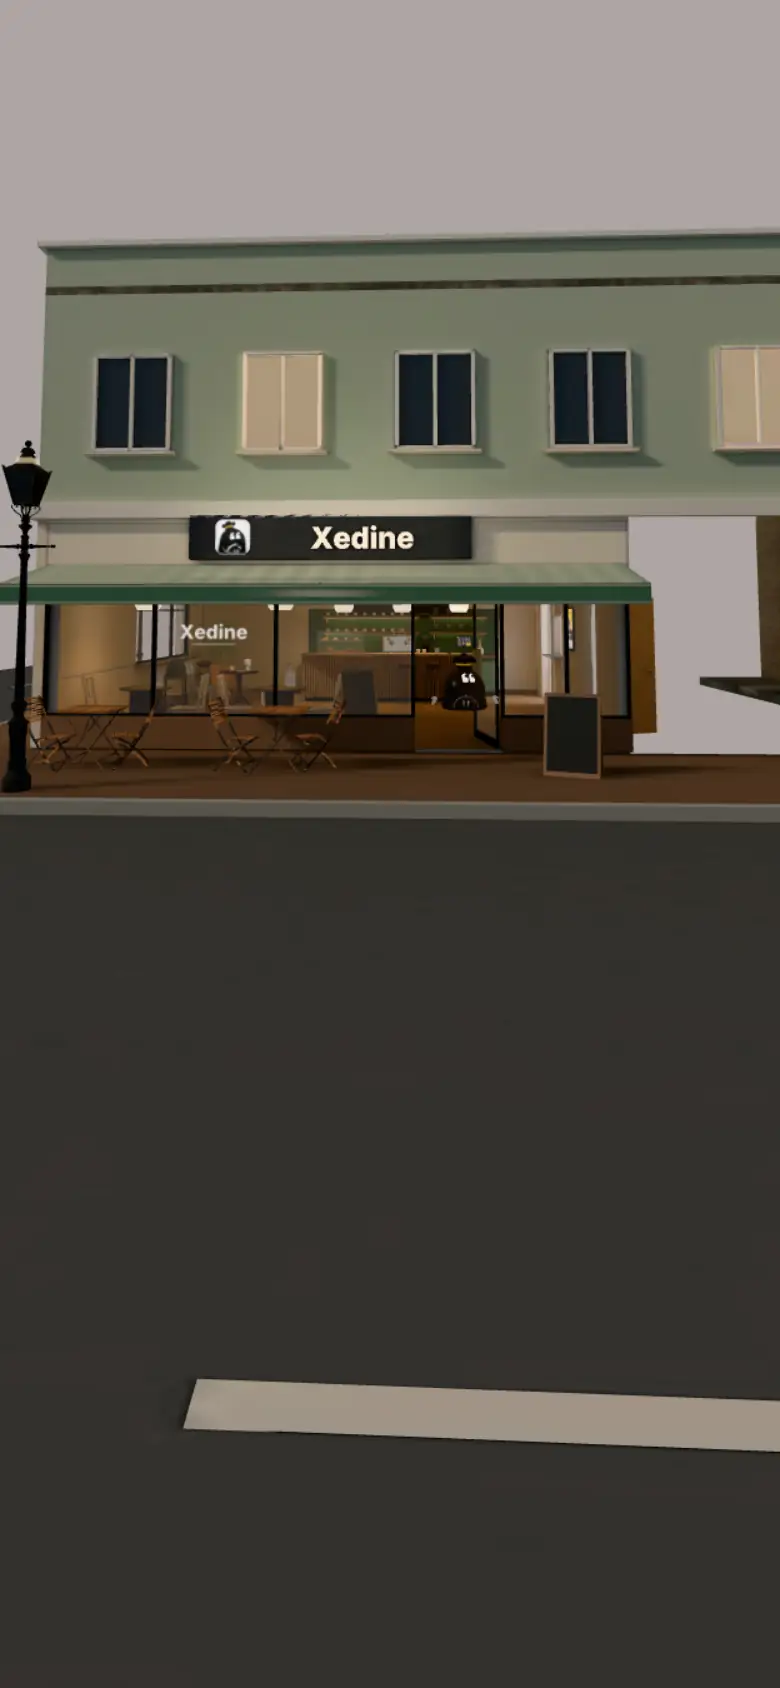
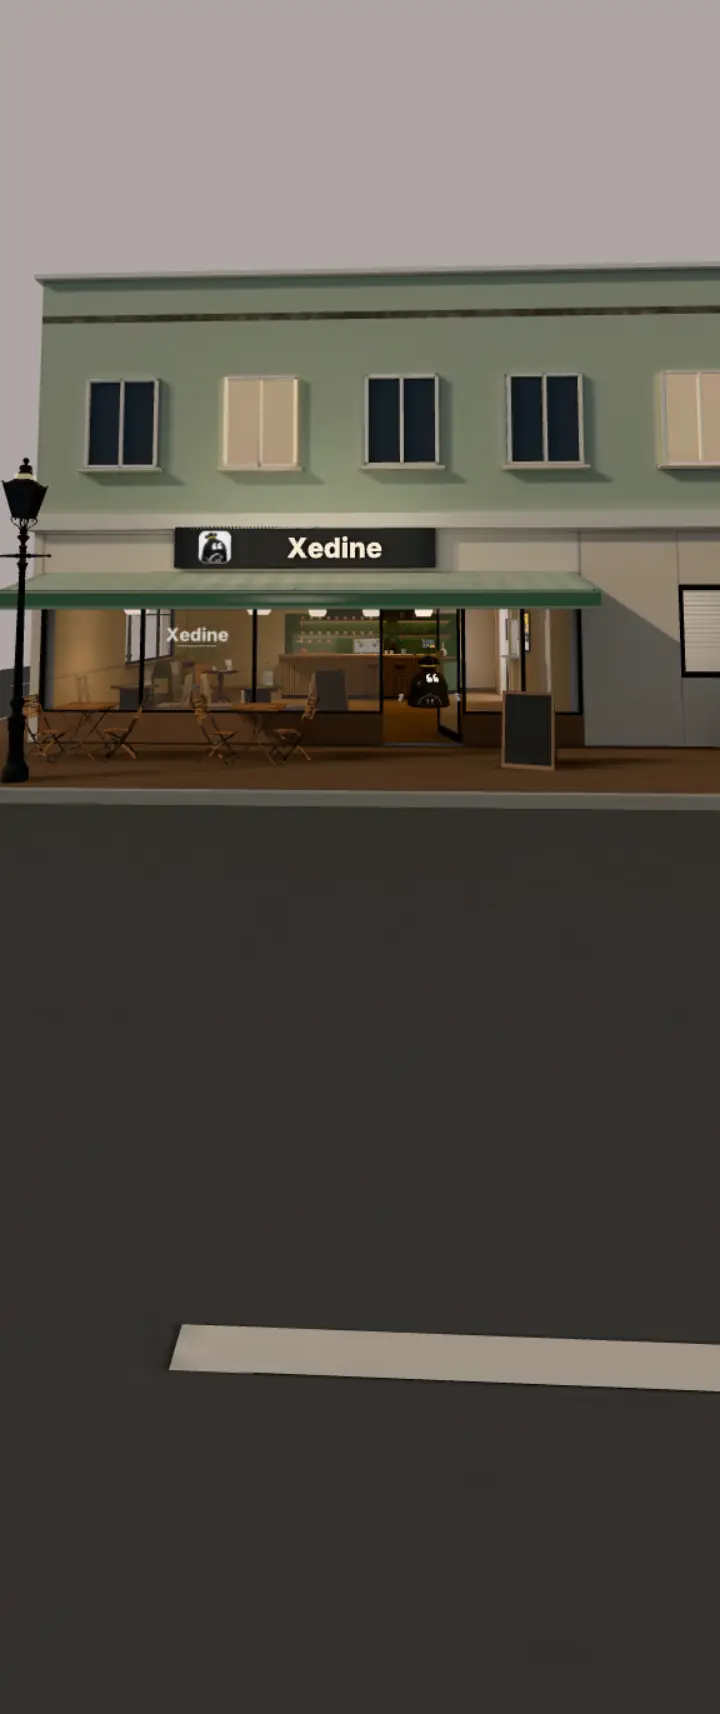
Home page: the first picture matches the 3D on every screen, and the first scroll no longer stutters (ADR 0064)
- Three first-view pictures (wide, squarer, tall), each anchored like the 3D camera, so the 3D fades in
  without a jump on any screen shape (checked at eight sizes, no shift). The 3D shows only once the street
  and the café are in, so the café never pops in; the loading chip only if someone scrolls first.
- 3D files unpack in background workers; each room goes to the graphics card when it arrives; later rooms
  load when the browser is idle instead of on the first scroll.

Changed region(s): [[0.0, 0.1232, 1.0, 0.4929], [0.2444, 0.7701, 1.0, 0.8626]]

diff --git a/src/components/landing-3d/world.tsx b/src/components/landing-3d/world.tsx
@@ -1,7 +1,7 @@
 'use client';
 
 import { useGLTF } from '@react-three/drei';
-import { useFrame } from '@react-three/fiber';
+import { useFrame, useThree } from '@react-three/fiber';
 import {
   type RefObject,
   Suspense,
@@ -17,6 +17,7 @@ import { createScreen, planeUv, SCREEN_SIZES, type ScreenText } from './screens'
 import { type ScreenId, toThree, type V3 } from './story';
 import { friesShown, screenAt, timeOfDay, windowOpen } from './timeline';
 import { landingAsset } from './asset-version';
+import { withMeshopt } from './gltf';
 
 /** Built by scripts/landing-3d/world.py + bake.py + pack.mjs (ADR 0064): one file per zone. */
 export const ZONES = ['st', 'ca', 'ki', 'sr', 'of'] as const;
@@ -25,10 +26,13 @@ export const zoneUrl = (z: Zone) => landingAsset(`world-${z}.glb`);
 const NIGHT_URL = (atlas: string) => landingAsset(`night/${atlas}.webp`);
 
 /**
- * From which point of the story (p) each zone may load: the café shows through the windows at dawn; the
- * kitchen and the storeroom are on the way to the bazar (moment 3); the office is moment 6.
+ * Where in the story (p) each zone is needed at the latest: the café shows through the windows at dawn; the
+ * kitchen and the storeroom are on the way to the bazar (moment 3); the office is moment 6. Zones load one
+ * at a time when the browser is idle, or at once when the story gets this close.
  */
-const ZONE_FROM: Record<Zone, number> = { st: 0, ca: 0, ki: 0.35, sr: 0.35, of: 3 };
+const ZONE_NEEDED: Record<Zone, number> = { st: 0, ca: 0, ki: 1.2, sr: 1.2, of: 4 };
+
+const TEXTURE_SLOTS = ['map', 'emissiveMap', 'normalMap', 'roughnessMap', 'metalnessMap', 'aoMap'];
 
 /** Shared by every baked surface: how far into the night, and the light's colour (dawn is warm). */
 export const LIGHT = { uNight: { value: 0 }, uTint: { value: new THREE.Color(1, 1, 1) } };
@@ -86,9 +90,27 @@ function ZoneModel({
   live: RefObject<LiveParts>;
   onLoaded: (zone: Zone) => void;
 }) {
-  const { scene } = useGLTF(zoneUrl(zone), false, true);
+  const { scene } = useGLTF(zoneUrl(zone), false, false, withMeshopt);
   // Tells the world this zone is in, so the next one starts loading (one at a time, the street first).
-  useEffect(() => onLoaded(zone), [onLoaded, zone]);
+  const gl = useThree((state) => state.gl);
+  const camera = useThree((state) => state.camera);
+  useEffect(() => {
+    // Hand the zone to the graphics card now (textures and shaders), not the first time it comes into view
+    // mid-scroll, which made the page stutter (the founder, 2026-11-18).
+    scene.traverse((o) => {
+      const mesh = o as THREE.Mesh;
+      if (!mesh.isMesh) return;
+      for (const mat of Array.isArray(mesh.material) ? mesh.material : [mesh.material]) {
+        const slots = mat as unknown as Record<string, unknown>;
+        for (const slot of TEXTURE_SLOTS) {
+          const tex = slots[slot];
+          if (tex instanceof THREE.Texture) gl.initTexture(tex);
+        }
+      }
+    });
+    gl.compile(scene, camera);
+    onLoaded(zone);
+  }, [gl, camera, scene, onLoaded, zone]);
   useLayoutEffect(() => {
     const hinged: THREE.Mesh[] = [];
     scene.traverse((o) => {
@@ -309,24 +331,34 @@ export function World({
   text,
   zones,
   onStreet,
+  onFirstView,
 }: {
   progressRef: RefObject<number>;
   text: ScreenText;
   zones: readonly Zone[];
-  /** Once the first zone is drawn. */
+  /** Once the first zone (the street) is drawn. */
   onStreet?: () => void;
+  /** Once the first view is whole: the street and the café seen through its windows. */
+  onFirstView?: () => void;
 }) {
-  // Zones load one at a time, and only once the story is near them (`ZONE_FROM`): someone who reads the
-  // first moment downloads the street and the café, not the whole building.
-  const [loaded, setLoaded] = useState(1);
-  const [reached, setReached] = useState(1);
+  // Zones load one at a time: the next one when the browser is idle, or at once when the story nears it
+  // (`ZONE_NEEDED`), so the first picture comes first and later rooms never arrive mid-scroll.
+  const [allowed, setAllowed] = useState(1);
+  const doneRef = useRef(0);
   const onLoaded = useCallback(
     (zone: Zone) => {
       const i = zones.indexOf(zone);
       if (i === 0) onStreet?.();
-      setLoaded((n) => Math.max(n, i + 2));
+      // The café shows through the windows at dawn: the 3D shows only once it is in, so it never pops in.
+      if (i === 1) onFirstView?.();
+      doneRef.current = Math.max(doneRef.current, i + 1);
+      const next = () => setAllowed((n) => Math.max(n, i + 2));
+      if (i === 0) next();
+      else if (typeof window.requestIdleCallback === 'function')
+        window.requestIdleCallback(next, { timeout: 2500 });
+      else globalThis.setTimeout(next, 800);
     },
-    [zones, onStreet],
+    [zones, onStreet, onFirstView],
   );
   const screens = useMemo<Screens>(() => {
     const out: Screens = {};
@@ -374,8 +406,9 @@ export function World({
 
   useFrame(() => {
     const p = progressRef.current ?? 0;
-    const near = zones.reduce((n, z, i) => (p >= ZONE_FROM[z] ? i + 1 : n), 1);
-    if (near > reached) setReached(near);
+    const done = doneRef.current;
+    const upcoming = zones[done];
+    if (upcoming && allowed <= done && p >= ZONE_NEEDED[upcoming]) setAllowed(done + 1);
     const { hour, night } = timeOfDay(p);
     LIGHT.uNight.value = THREE.MathUtils.smoothstep(night, 0.15, 0.95);
     // Dawn is warm and low; mid-afternoon a touch golden; noon neutral.
@@ -413,7 +446,7 @@ export function World({
 
   return (
     <>
-      {zones.slice(0, Math.min(loaded, reached)).map((z) => (
+      {zones.slice(0, allowed).map((z) => (
         <Suspense key={z} fallback={null}>
           <ZoneModel zone={z} screens={screens} live={live} onLoaded={onLoaded} />
         </Suspense>
@@ -425,5 +458,5 @@ export function World({
 }
 
 export function preloadWorld() {
-  for (const z of ZONES) useGLTF.preload(zoneUrl(z), false, true);
+  for (const z of ZONES) useGLTF.preload(zoneUrl(z), false, false, withMeshopt);
 }

diff --git a/src/components/landing-3d/day-story.tsx b/src/components/landing-3d/day-story.tsx
@@ -85,12 +85,9 @@ export function DayStory({ corner, footer, backdrop, currency, taxName, home, co
   // The loading chip shows until the street is drawn; the other rooms arrive while the visitor reads.
   const [ready, setReady] = useState(false);
   const onReady = useCallback(() => setReady(true), []);
-  // The loading chip only if the 3D is slow: until then the first view's picture is the page.
-  const [slow, setSlow] = useState(false);
-  useEffect(() => {
-    const id = window.setTimeout(() => setSlow(true), 2500);
-    return () => window.clearTimeout(id);
-  }, []);
+  // The first view's picture matches the 3D exactly, so it needs no loading chip, unless someone scrolls
+  // before the 3D is in (the picture cannot move with them).
+  const [moved, setMoved] = useState(false);
 
   useEffect(() => {
     const query = window.matchMedia('(prefers-reduced-motion: reduce)');
@@ -110,6 +107,7 @@ export function DayStory({ corner, footer, backdrop, currency, taxName, home, co
         targetRef.current = still.current ? Math.floor(p) + 0.62 : p;
         // The card changes halfway between two moments, as the next room comes into view.
         setActive(cardAt(p));
+        if (p > 0.05) setMoved(true);
         setShowCity(p > 14.6 && p < 17.6);
         // The moment's card shows while the 3D day fills the screen, not over the A–Z list after it.
         setInStory(el.getBoundingClientRect().bottom > window.innerHeight * 0.55);
@@ -168,7 +166,7 @@ export function DayStory({ corner, footer, backdrop, currency, taxName, home, co
               />
             </div>
           )}
-          {can3d && !ready && slow && (
+          {can3d && !ready && moved && (
             <div className="pointer-events-none absolute inset-x-0 bottom-6 flex justify-center">
               <p className="xedine-chip rounded-full px-4 py-1.5 text-xs">{t('intro.loading')}</p>
             </div>

diff --git a/src/components/landing-3d/day-page.tsx b/src/components/landing-3d/day-page.tsx
@@ -33,24 +33,39 @@ export async function DayPage({
     ...(COUNTRY_PLACES[c] ?? { lat: 0, lng: 0 }),
   });
   await getTranslations('landing3d.day');
-  // The first view as a picture (captured from the 3D, 44 KB wide, 18 KB upright), shown at once.
+  // The first view as a picture, shown at once. Three shapes, each framed and anchored like the 3D camera
+  // (frameCamera): wide screens keep the height with the subject 66% across, squarer ones keep the width,
+  // upright phones keep the width with the subject a third down. So the 3D fades in without a jump.
   const common = { alt: '', unoptimized: true, priority: true } as const;
   const wide = getImageProps({
     ...common,
     src: landingAsset('poster-wide.webp'),
-    width: 2000,
-    height: 1125,
+    width: 2400,
+    height: 1000,
+  }).props;
+  const square = getImageProps({
+    ...common,
+    src: landingAsset('poster-square.webp'),
+    width: 1500,
+    height: 1250,
   }).props;
   const { src: tall, ...img } = getImageProps({
     ...common,
     src: landingAsset('poster-tall.webp'),
-    width: 780,
-    height: 1688,
+    width: 720,
+    height: 1714,
   }).props;
   const backdrop = (
     <picture>
-      <source media="(min-aspect-ratio: 3/4)" srcSet={wide.src} />
-      <img {...img} alt="" src={tall} fetchPriority="high" className="h-full w-full object-cover" />
+      <source media="(min-aspect-ratio: 16/9)" srcSet={wide.src} />
+      <source media="(min-aspect-ratio: 1/1)" srcSet={square.src} />
+      <img
+        {...img}
+        alt=""
+        src={tall}
+        fetchPriority="high"
+        className="xedine-poster h-full w-full"
+      />
     </picture>
   );
   return (

diff --git a/src/components/landing-3d/day-stage.tsx b/src/components/landing-3d/day-stage.tsx
@@ -170,7 +170,7 @@ export type StageProps = {
   easedRef: RefObject<number>;
   text: ScreenText;
   showCity: boolean;
-  /** Once the street is drawn: the page's loading chip goes. */
+  /** Once the first view is whole (the street and the café): the 3D fades in over the picture. */
   onReady?: () => void;
   city: {
     branches: BranchLabel[];
@@ -193,10 +193,7 @@ export default function DayStage({
   const showRef = useRef<Show>({ city: 0, globe: 0 });
   // The people's file waits for the street, so the first picture comes first.
   const [street, setStreet] = useState(false);
-  const onStreet = useCallback(() => {
-    setStreet(true);
-    onReady?.();
-  }, [onReady]);
+  const onStreet = useCallback(() => setStreet(true), []);
   const phonesRef = useRef(new Map<CastId, THREE.Vector3>());
   return (
     <Canvas
@@ -215,7 +212,13 @@ export default function DayStage({
         phonesRef={phonesRef}
       />
       <Atmosphere easedRef={easedRef} />
-      <World progressRef={easedRef} text={text} zones={ZONES} onStreet={onStreet} />
+      <World
+        progressRef={easedRef}
+        text={text}
+        zones={ZONES}
+        onStreet={onStreet}
+        onFirstView={onReady}
+      />
       {street && (
         <Suspense fallback={null}>
           <Cast progressRef={easedRef} text={text} phonesRef={phonesRef} />

diff --git a/src/components/landing-3d/cafe-corner.tsx b/src/components/landing-3d/cafe-corner.tsx
@@ -6,6 +6,7 @@ import { useLayoutEffect, useMemo } from 'react';
 import * as THREE from 'three';
 import { createTillScreen, type TillLine, type TillWords } from './till-screen';
 import { landingAsset } from './asset-version';
+import { withMeshopt } from './gltf';
 
 /** Built by scripts/landing-3d/cafe.py and bake.py: the still café with its light baked in (ADR 0064). */
 export const CAFE_GLB = landingAsset('cafe-corner.glb');
@@ -24,7 +25,7 @@ export function CafeCorner({
   order: TillLine[];
   total: string;
 }) {
-  const { scene } = useGLTF(CAFE_GLB, false, true);
+  const { scene } = useGLTF(CAFE_GLB, false, false, withMeshopt);
   const screen = useMemo(() => createTillScreen(till, order, total), [till, order, total]);
 
   useLayoutEffect(() => {
@@ -60,4 +61,4 @@ export function CafeCorner({
   return <primitive object={scene} />;
 }
 
-useGLTF.preload(CAFE_GLB, false, true);
+useGLTF.preload(CAFE_GLB, false, false, withMeshopt);

diff --git a/src/components/landing-3d/cast.tsx b/src/components/landing-3d/cast.tsx
@@ -8,6 +8,7 @@ import { createScreen, planeUv, SCREEN_SIZES, type ScreenText } from './screens'
 import { CAST_IDS, type CastId, type Pose, type Prop } from './story';
 import { beatAt, castAt } from './timeline';
 import { landingAsset } from './asset-version';
+import { withMeshopt } from './gltf';
 
 /** Built by scripts/landing-3d/cast.py (ADR 0064): the café's people, little blobs from Xedine's family. */
 export const CAST_GLB = landingAsset('cast.glb');
@@ -118,7 +119,7 @@ export function Cast({
   /** Where each held phone is this frame (the camera aims its close looks at the real phone). */
   phonesRef: RefObject<Map<CastId, THREE.Vector3>>;
 }) {
-  const { scene } = useGLTF(CAST_GLB, false, true);
+  const { scene } = useGLTF(CAST_GLB, false, false, withMeshopt);
   const rigsRef = useRef<Partial<Record<CastId, Rig>>>({});
   const tmpRef = useRef({ v: new THREE.Vector3(), w: new THREE.Vector3() });
 

diff --git a/src/components/landing-3d/gltf.ts b/src/components/landing-3d/gltf.ts
@@ -1,0 +1,16 @@
+'use client';
+
+import { MeshoptDecoder } from 'three/examples/jsm/libs/meshopt_decoder.module.js';
+
+// The 3D day's files are meshopt-compressed (pack.mjs). three's decoder unpacks them in two background
+// workers, so a room arriving mid-scroll doesn't freeze the page (the founder saw it stutter, 2026-11-18).
+// (three names it useWorkers; it is not a React hook.)
+const { useWorkers: startWorkers } = MeshoptDecoder;
+if (typeof window !== 'undefined') startWorkers(2);
+
+/** Pass as useGLTF's fourth argument (with useMeshopt false): the worker-backed decoder. */
+export const withMeshopt = (loader: {
+  setMeshoptDecoder: (decoder: typeof MeshoptDecoder) => unknown;
+}) => {
+  loader.setMeshoptDecoder(MeshoptDecoder);
+};

diff --git a/src/components/landing-3d/xedine.tsx b/src/components/landing-3d/xedine.tsx
@@ -13,6 +13,7 @@ import {
 } from 'react';
 import * as THREE from 'three';
 import { landingAsset } from './asset-version';
+import { withMeshopt } from './gltf';
 
 /** Built by scripts/landing-3d/xedine.py from the chef logo (ADR 0064). */
 export const XEDINE_GLB = landingAsset('xedine.glb');
@@ -86,7 +87,7 @@ type Props = ThreeElements['group'] & {
 
 export const Xedine = forwardRef<XedineHandle, Props>(function Xedine({ target, ...props }, ref) {
   const group = useRef<THREE.Group>(null);
-  const { scene, animations } = useGLTF(XEDINE_GLB, false, true);
+  const { scene, animations } = useGLTF(XEDINE_GLB, false, false, withMeshopt);
   const clips = useMemo(
     () =>
       animations.map((clip) => {

diff --git a/src/app/styles/landing-3d.css b/src/app/styles/landing-3d.css
@@ -24,3 +24,21 @@
     0 1px 0 color-mix(in oklab, var(--brand-silver) 18%, transparent) inset,
     0 18px 40px -18px color-mix(in oklab, var(--brand-grey) 70%, transparent);
 }
+
+/* The 3D day's first view as a picture (day-page.tsx): anchored where frameCamera puts the subject, so the
+   live 3D fades in over it without a jump. Upright phones: a third down; squarer screens: centred (the
+   width fits); wide screens: 66% across (the height fits). */
+.xedine-poster {
+  object-fit: cover;
+  object-position: 50% 33%;
+}
+@media (min-aspect-ratio: 1/1) {
+  .xedine-poster {
+    object-position: 50% 50%;
+  }
+}
+@media (min-aspect-ratio: 16/9) {
+  .xedine-poster {
+    object-position: 66% 50%;
+  }
+}

diff --git a/src/components/landing-3d/asset-version.ts b/src/components/landing-3d/asset-version.ts
@@ -3,7 +3,7 @@
  * carries this version: a new build of the world gets new URLs and nobody sees an old file. It is a hash of
  * the files themselves; asset-version.test.ts fails until it is updated after a rebuild (ADR 0064).
  */
-export const LANDING_3D_VERSION = '9ae93a0445';
+export const LANDING_3D_VERSION = '9ec2c3d802';
 
 /** A file under /landing/3d, with its version. */
 export const landingAsset = (path: string) => `/landing/3d/${path}?v=${LANDING_3D_VERSION}`;

diff --git a/docs/decisions/0064-landing-page-3d-journey.md b/docs/decisions/0064-landing-page-3d-journey.md
@@ -171,3 +171,16 @@ The founder watched the whole day and asked for 23 changes. What changed, and th
   storeroom from p 0.35, office from p 3.
 - Measured on xedine.org (first visit): PC 3D drawn 1.4 s (was 2.4 s); phone on 4G picture 1.1 s, 3D 1.8 s
   (was 7.7 s at the start of the day); a slow phone (4× CPU) picture 1.5 s, 3D 3.8 s (was 8.5 s).
+
+## Amendment (2026-11-18): no jump, no stutter
+
+- **The picture matches the 3D at every screen shape.** Three pictures (very wide 2.4:1, squarer 1.2:1, very
+  tall 0.42), each anchored where `frameCamera` puts the subject (wide: height fits, 66% across; squarer:
+  width fits, centred; phones: width fits, a third down; `.xedine-poster` in landing-3d.css). Checked at
+  eight sizes from 360×800 to 2560×1080: no shift, about 1/255 difference. The 3D fades in only when the
+  street **and the café** (seen through the windows) are in, so the café never pops in. The loading chip
+  shows only if someone scrolls before the 3D is ready.
+- **No stutter on the first scroll.** The 3D files are unpacked in two background workers (three's meshopt
+  decoder, `gltf.ts`); each room's textures and shaders go to the graphics card when it arrives, not the
+  first time it comes into view; later rooms load when the browser is idle (or at once when the story nears
+  them, `ZONE_NEEDED`), instead of starting exactly when the visitor first scrolls.
